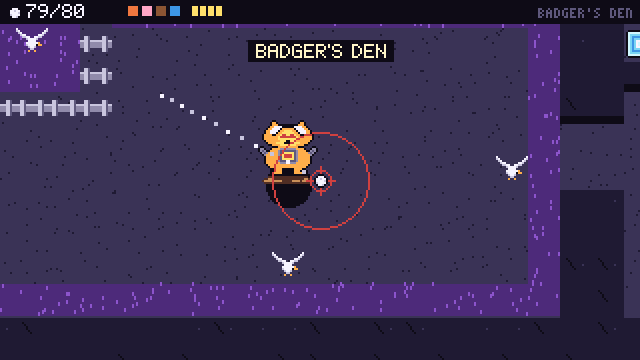
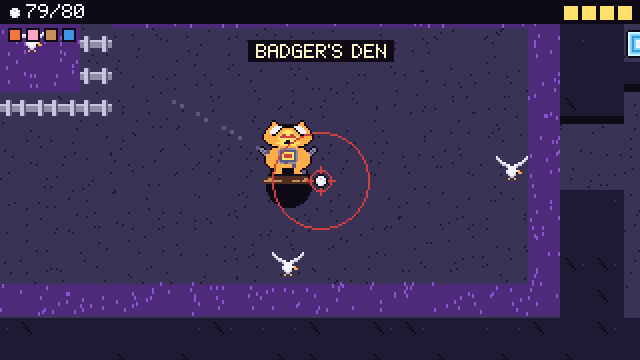
LOST LINKS: the aim and check mode as the missing-manuals guide describes
The power shows as dots lighting up along the aiming line; a chip shows
an arc and a landing circle; holding B is check mode, with the ground
under the middle of the view shown as an arrow, a red square or a
circle; the upgrades sit under the strokes and the Star Pin's pieces on
the right. Doc, README and shots updated.

diff --git a/src/games/lostlinks/lostlinks.c b/src/games/lostlinks/lostlinks.c
@@ -934,7 +934,7 @@ static void draw_world(void) {
         for (int tx = tx0; tx <= tx0 + SCREEN_W / LNK_T + 1; tx++) {
             char ch = (tx < 0 || ty < 0 || tx >= LNK_MW || ty >= LNK_MH) ? '#' : (char)tiles[l][ty][tx];
             if ((ch == 'g' && (ctx.opened & 1)) || (ch == 'k' && (ctx.opened & 2))) ch = '.';
-            lnk_draw_tile(l, ch, tx, ty, tx * LNK_T - cx, ty * LNK_T - cy, frame_t, panning, tiles);
+            lnk_draw_tile(l, ch, tx, ty, tx * LNK_T - cx, ty * LNK_T - cy, frame_t, false, tiles);
         }
     /* things */
     for (int i = 0; i < lnk_nthings; i++) {
@@ -1016,20 +1016,44 @@ static void draw_world(void) {
             spr_draw(&lnk_spr[LS_CROSSHAIR], ccx - 7, ccy - 7, 0);
         }
     }
-    /* the aiming line: the first stretch of the roll, bending with the ground */
+    /* The aim [MANUALS]: a putt shows a line of dots the way the ball will
+     * go (bending with the ground), and the dots light up along it to show
+     * the power; a chip shows an arc of dots in the air and a circle where
+     * it will land. */
     if (!ball.moving && (state == ST_PLAY) && !panning) {
         LnkBall g = ball;
         LnkCtx pc = ctx;
         pc.probe = true;
-        lnk_hit(&g, &pc, aim, charging ? level_shown : 5);
-        int steps = lnk_is_chip(&ball, &ctx) ? 30 : 36;
-        for (int f = 0; f < steps; f++) {
-            int ev = lnk_ball_step(&g, &pc);
-            if (f % 3 == 2) {
-                int px = (int)g.x - cx, py = (int)(g.y - g.z) - cy;
-                gfx_rect(px, py, 2, 2, f / 3 % 2 ? C_WHITE : C_LIGHT);
+        if (lnk_is_chip(&ball, &ctx)) {
+            lnk_hit(&g, &pc, aim, charging ? level_shown : 1);
+            for (int f = 0; f < 60; f++) {
+                float lx = g.x, ly = g.y;
+                bool up = g.z > 0;
+                int ev = lnk_ball_step(&g, &pc);
+                if (up && g.z <= 0) {
+                    gfx_circb((int)lx - cx, (int)ly - cy, 4, C_WHITE);
+                    break;
+                }
+                if (f % 3 == 1) gfx_rect((int)g.x - cx, (int)(g.y - g.z) - cy, 2, 2, C_WHITE);
+                if (ev == EV_HOLE || ev == EV_SINK || ev == EV_REST) break;
             }
-            if (ev == EV_HOLE || ev == EV_SINK || ev == EV_REST) break;
+        } else {
+            lnk_hit(&g, &pc, aim, LNK_LEVELS);
+            float run = 0, px = g.x, py = g.y;
+            int dot = 0;
+            for (int f = 0; f < 90 && dot < LNK_LEVELS; f++) {
+                int ev = lnk_ball_step(&g, &pc);
+                run += sqrtf((g.x - px) * (g.x - px) + (g.y - py) * (g.y - py));
+                px = g.x;
+                py = g.y;
+                while (dot < LNK_LEVELS && run >= (dot + 1) * 7.0f) {
+                    bool lit = charging && dot < level_shown;
+                    int c = lit ? (dot < 4 ? C_WHITE : dot < 8 ? C_YELLOW : C_ORANGE) : C_SLATE;
+                    gfx_rect((int)g.x - cx, (int)g.y - cy, 2, 2, c);
+                    dot++;
+                }
+                if (ev == EV_HOLE || ev == EV_SINK || ev == EV_REST) break;
+            }
         }
     }
     /* the ball */
@@ -1041,8 +1065,27 @@ static void draw_world(void) {
     for (int i = 0; i < ARRAY_LEN(parts); i++)
         if (parts[i].life > 0) gfx_rect((int)parts[i].x - cx, (int)parts[i].y - cy, 2, 2, parts[i].col);
     if (panning) {
-        gfx_rectb(2, 14, SCREEN_W - 4, SCREEN_H - 16, C_YELLOW);
-        tiny_draw("LOOKING", 6, SCREEN_H - 9, C_YELLOW);
+        /* "check" mode [MANUALS]: the middle of the view says what the
+         * ground there is: an arrow down a slope, a red square for a wall,
+         * a yellow circle for sand, a white circle for flat ground (or a pit) */
+        int mx = SCREEN_W / 2, my = SCREEN_H / 2;
+        char ch = lnk_tile(&ctx, l, (int)floorf((cx + mx) / (float)LNK_T), (int)floorf((cy + my) / (float)LNK_T));
+        float ax, ay;
+        lnk_slope(ch, &ax, &ay);
+        gfx_rect(mx - 9, my - 9, 19, 19, C_INK);
+        gfx_rectb(mx - 9, my - 9, 19, 19, C_GREY);
+        if (ax != 0 || ay != 0) {
+            float s = sqrtf(ax * ax + ay * ay), dx = ax / s, dy = ay / s;
+            gfx_line(mx - (int)(dx * 6), my - (int)(dy * 6), mx + (int)(dx * 6), my + (int)(dy * 6), C_WHITE);
+            gfx_line(mx + (int)(dx * 6), my + (int)(dy * 6), mx + (int)(dx * 2 - dy * 4), my + (int)(dy * 2 + dx * 4), C_WHITE);
+            gfx_line(mx + (int)(dx * 6), my + (int)(dy * 6), mx + (int)(dx * 2 + dy * 4), my + (int)(dy * 2 - dx * 4), C_WHITE);
+        } else if (lnk_solid_char(ch) || ch == 'g' || ch == 'k') {
+            gfx_rect(mx - 5, my - 5, 11, 11, C_RED);
+        } else if (ch == 's') {
+            gfx_circ(mx, my, 5, C_YELLOW);
+        } else {
+            gfx_circ(mx, my, 5, C_WHITE);
+        }
     }
 }
 
@@ -1053,32 +1096,25 @@ static void draw_hud(void) {
     spr_draw(&lnk_spr[LS_BALL], 4, 3, 0);
     snprintf(b, sizeof b, "%d/%d", strokes, mx);
     text_draw(b, 13, 2, strokes <= 3 ? ((frame_t / 10) % 2 ? C_RED : C_ORANGE) : C_WHITE);
-    /* collected, in small */
-    int x = 64;
-    for (int a = 0; a < AB_COUNT; a++) {
-        gfx_rect(x + a * 7, 3, 5, 5, has_ab(a) ? (a == 0 ? C_ORANGE : a == 1 ? C_PINK : a == 2 ? C_TAN : C_SKY) : C_NIGHT);
+    /* below the strokes, the upgrades found so far [MANUALS] */
+    int x = 4;
+    for (int a = 0; a < AB_COUNT; a++)
+        if (has_ab(a)) {
+            gfx_rect(x, 14, 7, 7, C_INK);
+            gfx_rect(x + 1, 15, 5, 5, a == AB_HAMMER ? C_ORANGE : a == AB_BACKSPIN ? C_PINK : a == AB_TREAD ? C_EARTH : C_SKY);
+            x += 9;
+        }
+    /* on the right, a mystery to uncover: the Star Pin's pieces */
+    for (int p = 0; p < LNK_PIECES; p++) {
+        int px = SCREEN_W - 8 - (LNK_PIECES - 1 - p) * 9;
+        if ((sv.pieces >> p) & 1) gfx_rect(px - 3, 3, 7, 7, C_YELLOW);
+        else gfx_rectb(px - 3, 3, 7, 7, C_DUSK);
     }
-    x += 32;
-    for (int p = 0; p < LNK_PIECES; p++) gfx_rect(x + p * 4, 3, 3, 5, (sv.pieces >> p) & 1 ? C_YELLOW : C_NIGHT);
-    int zx = iclamp((int)(ball.x / (LNK_ZW * LNK_T)), 0, LNK_ZX - 1), zy = iclamp((int)(ball.y / (LNK_ZH * LNK_T)), 0, LNK_ZY - 1);
-    const char *zn = LNK_ZONE_NAME[ball.layer][zy][zx];
     if (banner_t > 0) {
         int w = text_width(banner);
         gfx_rect(SCREEN_W / 2 - w / 2 - 4, 20, w + 8, 11, C_INK);
         text_draw(banner, SCREEN_W / 2 - w / 2, 22, banner_col);
     }
-    tiny_draw(zn, SCREEN_W - 4 - tiny_width(zn), 4, C_SLATE);
-    if (charging) {
-        /* the power meter: twelve pips */
-        int y = SCREEN_H - 12;
-        gfx_rect(SCREEN_W / 2 - 50, y - 2, 100, 9, C_INK);
-        for (int i = 0; i < LNK_LEVELS; i++) {
-            int col = i < level_shown ? (i < 4 ? C_LIME : i < 8 ? C_YELLOW : C_RED) : C_NIGHT;
-            gfx_rect(SCREEN_W / 2 - 48 + i * 8, y, 6, 5, col);
-        }
-    }
-    if (ball.lie == LIE_CUP && !ball.moving && state == ST_PLAY) tiny_draw("FREE CHIP OUT OF THE CUP", 6, SCREEN_H - 9, C_LIME);
-    else if (lnk_is_chip(&ball, &ctx) && !ball.moving && state == ST_PLAY) tiny_draw("CHIP", 6, SCREEN_H - 9, C_TAN);
 }
 
 static void draw_box(const char *title, const char *text) {
@@ -1638,11 +1674,11 @@ const GameDef GAME_LOSTLINKS = {
     "LOST LINKS",
     "1985",
     "ADVENTURE",
-    "DIMPLE THE GOLF BALL WAKES UNDER THE OLD LINKS. EVERY ROLL IS A STROKE, AND STROKES ARE LIFE.",
+    "DIMPLE THE GOLF BALL EXPLORES THE LINKS. EVERY ROLL IS A STROKE.",
     {"FIND THE HAMMERHEAD", "BEAT THE BRASS BADGER", "WIN WITH EVERYTHING FOUND"},
     GLYPH_DPAD "\tAIM\n"
     "HOLD " GLYPH_A "\tSWING (LET GO TO HIT)\n"
-    GLYPH_B "\tCANCEL / HOLD TO LOOK\n"
+    GLYPH_B "\tCANCEL / HOLD: CHECK\n"
     GLYPH_A " / " GLYPH_B " ROLLING\tHOP / BRAKE (ONCE FOUND)\n"
     "START\tPAUSE",
     C_LEAF, C_WHITE,

diff --git a/docs/games/18-lost-links.md b/docs/games/18-lost-links.md
@@ -88,16 +88,27 @@ below (or above) where it was.
 - **The finale** sits under the Clubhouse: the altar in the hall, the
   sanctum under the gate, the Brass Badger's den beyond it.
 
+## The three goals
+
+| UFO 40 goal | LOST LINKS | Golfaria's goal [MH], [QB] |
+|---|---|---|
+| Beacon | find the Hammerhead | gift: obtain the Block Buster |
+| Saucer | beat the Brass Badger | gold: beat the game |
+| Alien | beat it with everything found: 20 irons, 8 strays, 4 abilities, 4 pieces, 10 scorecrows | cherry: win with 100 % completion (all clubs, balls, abilities, tee pieces and parbots) |
+
+Like most cherries, the Alien is checked at the ending.
+
 ## Mechanics checklist
 
 | Mechanic | How LOST LINKS does it | Source | Test |
 |---|---|---|---|
 | A golf ball's adventure | top-down; every move is a stroke | [MH], [LIZ] | ln_02 |
-| Aiming | the d-pad swings a line round in 64 steps; the line shows the first stretch of the roll, bending with the slopes | [MH], [ST-GF1] | ln_02 |
-| Charging | hold A: the power runs up and down twelve pips, more slowly the longer it is held; let go to hit | [MH] | ln_02 |
-| Cancel and look | B cancels a swing; B held pans the view round (the slopes are marked while looking) | [MH], [MANUALS], [LIZ] | ln_02 |
-| Only along the ground | a stroke rolls; only from sand, a divot or a hole does the ball leave the ground (a chip) | [LIZ], [MANUALS], [QB] | ln_03, ln_04 |
-| Strokes | the counter top left, now / most; every stroke costs one, chips out of sand and divots too; leaving a hole is free | [MH], [QB] | ln_02, ln_03, ln_04 |
+| Aiming | the d-pad aims (64 steps); a line of dots shows the way the ball will go, bending with the slopes | [MANUALS], [MH], [ST-GF1] | ln_02 |
+| Charging | hold A: the dots light up along the line to show the power (twelve of them), up and down, more slowly the longer A is held; let go to hit | [MANUALS], [MH] | ln_02 |
+| Cancel | B cancels a swing | [MH] | ln_02 |
+| Check mode | B held: the d-pad looks round the map; the middle of the view shows the ground there: an arrow down a slope, a red square for a wall, a yellow circle for sand, a white circle for flat ground or a pit | [MANUALS], [MH], [LIZ] | ln_02 |
+| Only along the ground | a stroke rolls (a putt); only from sand, a divot or a hole does the ball leave the ground (a chip), shown as an arc of dots with a circle where it lands | [LIZ], [MANUALS], [QB] | ln_03, ln_04 |
+| Strokes | the counter top left, now / most; every stroke costs one, chips out of sand and divots too; leaving a hole is free; the upgrades found show below it, and a mystery on the right (the Star Pin's pieces) | [MANUALS], [MH], [QB] | ln_02, ln_03, ln_04 |
 | 20 to start | +3 for each of 20 irons, 80 at most; an iron refills too | [QB], [MH] | ln_05 |
 | Out of strokes | the run ends and Dimple wakes at the last pin touched with full strokes; everything found is kept (saved at once) | [QB], [IGGY], [STATIC] | ln_05 |
 | Pins | touching one makes it the checkpoint and refills the strokes | [MH], [QB] | ln_05 |
@@ -106,7 +117,7 @@ below (or above) where it was.
 | Slopes | a ball runs down them; one never rests on a fairway slope; long ones can't be climbed | [MH], [STATIC], [LIZ] | ln_03 |
 | Sand | stops a ball dead; only a chip gets out | [MH], [ST-GF1], [QB] | ln_03 |
 | Water | a ball in it goes back to where the stroke was hit from | [ST-GF1], [SEARCH] | ln_04 |
-| Holes | a slow ball drops in and comes out on the other layer, in the cup; a fast one rattles round the rim and rolls on | [TOS], [LIZ], [MH] | ln_04 |
+| Holes | a slow ball drops in and comes out on the other layer, in the cup; underground each hole is a shining circle that takes the ball back up; a fast ball rattles round the rim and rolls on | [MANUALS], [TOS], [LIZ], [MH] | ln_04 |
 | Divots | a slow ball settles in one; out is a chip | [QB] | ln_03 |
 | Bushes | the ball crashes through them; some hide holes | [MH] | ln_08 |
 | Birds | larks (hidden in bushes) +4, albatrosses +8 when rolled into; back next run | [MH], [LIZ] | ln_07 |
@@ -116,7 +127,7 @@ below (or above) where it was.
 | Brakes (our Backspin) | stops the ball dead; a slope wears it down | [MH] | ln_08 |
 | Sand Roll (our Dune Tread) | sand rolls like fairway; A again during a roll hops | [MH] | ln_03, ln_08 |
 | Water Roll (our Skipper) | rolling onto water skims it; no brakes on it; landing in it still sinks | [MH] | ln_04 |
-| Talking | roll into somebody; one or two lines that repeat | [MANUALS], [MH] | ln_13 |
+| Talking | everything is done by rolling into it; other golf balls give advice; one or two lines that repeat | [MANUALS], [MH] | ln_13 |
 | Strays | roll into one and it joins; in the finale each helps once when strokes run low | [MH], [SEARCH], [IGGY] | ln_13, ln_10 |
 | The Holy Tee (our Star Pin) | four pieces, set in the altar in the ruined clubhouse, open the way to the finale | [MH], [QB] | ln_10 |
 | The finale | a puzzle first (four plates, one for each ability's kind of ground), then the boss; no pin, no refill | [IGGY] | ln_10 |
@@ -141,8 +152,10 @@ below (or above) where it was.
 - **Starting strokes:** 20, as the FAQ, two reviews and a Steam thread say;
   the wiki says 15, but its own 80 at most only adds up from 20.
 - **Safe zones** top up to 15 as the wiki says (the FAQ says to the most).
-- **The aim:** the wiki says the d-pad "moves the directional aim". Ours
-  swings the aim towards the way pressed, a notch a tap, faster when held.
+- **The aim:** the wiki says the d-pad "moves the directional aim" and the
+  manual guide that it lets you "aim where you will move". Ours swings the
+  aim towards the way pressed, a notch a tap, faster when held.
+- **The power dots:** twelve, 7 pixels apart along a full stroke's path.
 - **The hop and the brake:** Sand Roll's jump is "press again during a
   stroke" (A). No source says which button brakes; ours is B while
   rolling, which is free then.
@@ -199,10 +212,10 @@ collection feature and UFO 40 has no terminal, so it is left out.
 
 | Input | Action | Source |
 |---|---|---|
-| D-pad | swing the aim towards the way pressed | [MH] (how it swings: ours) |
-| Hold A | charge the swing; let go to hit | [MH], [MANUALS] |
+| D-pad | aim (it swings towards the way pressed) | [MANUALS], [MH] (how it swings: **ours**) |
+| Hold A | charge a putt or a chip; let go to hit | [MANUALS], [MH] |
 | B (while charging) | cancel the swing | [MH] |
-| Hold B (ball at rest) | look round; the d-pad moves the view | [MH], [MANUALS], [ST-GF1] |
+| Hold B (ball at rest) | check mode: the d-pad looks round | [MANUALS], [MH], [ST-GF1] |
 | A (while rolling) | hop, with the Dune Tread | [MH] |
 | B (while rolling) | brake, with Backspin | **not sourced:** our choice |
 | D-pad (ball that can't settle) | nudge it | [IGGY] |
@@ -266,9 +279,15 @@ ball somewhere or set up a save):
   refill, friends giving strokes back, the gopher's stand, crosshair, six
   shots and 5-6 hits, two free eagles.
   https://steamcommunity.com/sharedfiles/filedetails/?id=3345726476
-- [MANUALS] Steam guide "The missing manuals - How to play UFO 50 games"
-  (as quoted in the research notes): the buttons, chipping from sand or a
-  hole, talking by rolling into somebody.
+- [MANUALS] Steam guide "The missing manuals - How to play UFO 50 games",
+  "18. Golfaria": "a golf-based metroidvania"; the d-pad aims; holding A
+  charges a putt, a line of dots whose lighting shows the strength, lighting
+  up slower and slower the longer A is held; a chip shows an arc of dots and
+  a circle where it lands; holding B is "check" mode, with the indicator for
+  the ground under the middle of the view; the putts counter top left, the
+  upgrades below it, a mystery on the right; everything is done by rolling
+  into it; holes to the underground and the shining circles back up;
+  flagpoles; other golf balls with advice.
   https://steamcommunity.com/sharedfiles/filedetails/?id=3350227767
 - [ST-GF1] Steam thread "Golfaria": hold X to look, 20 strokes, clubs in
   holes, the aiming line and slopes, water sends the ball back, bogeys

diff --git a/README.md b/README.md
@@ -452,12 +452,13 @@ the top.
 
 *A tribute to **Golfaria** (UFO 50 #18).*
 
-- **Plays the same:** you are a golf ball, and every move is a stroke. Swing
-  the aim with the d-pad, hold A while the power runs up and down, let go.
+- **Plays the same:** you are a golf ball, and every move is a stroke. Aim
+  with the d-pad and hold A: dots light up along the line to show the power,
+  up and down, slower the longer you hold; let go.
   Only from sand, a divot or a hole does the ball leave the ground. Strokes
   are your health: twenty to start, three more for each of twenty irons.
   Run out and you wake at the last pin you touched, keeping all you found.
-  Hold B to look round.
+  Hold B to check the ground ahead.
 - **The world:** one open world on two layers. Every hole drops you to the
   caves right underneath (or climbs back up), and a hole with a pin by it
   tops you up. Slopes, rough, greens, sand, water, bushes and cracked
